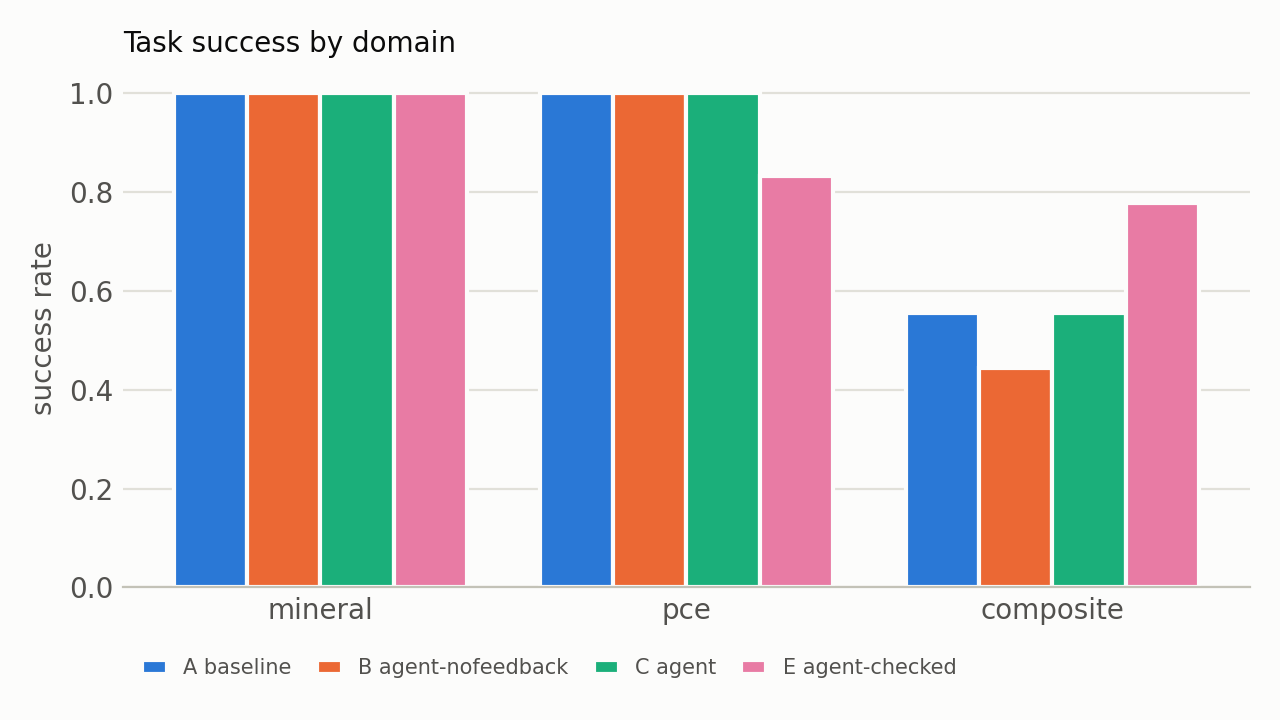
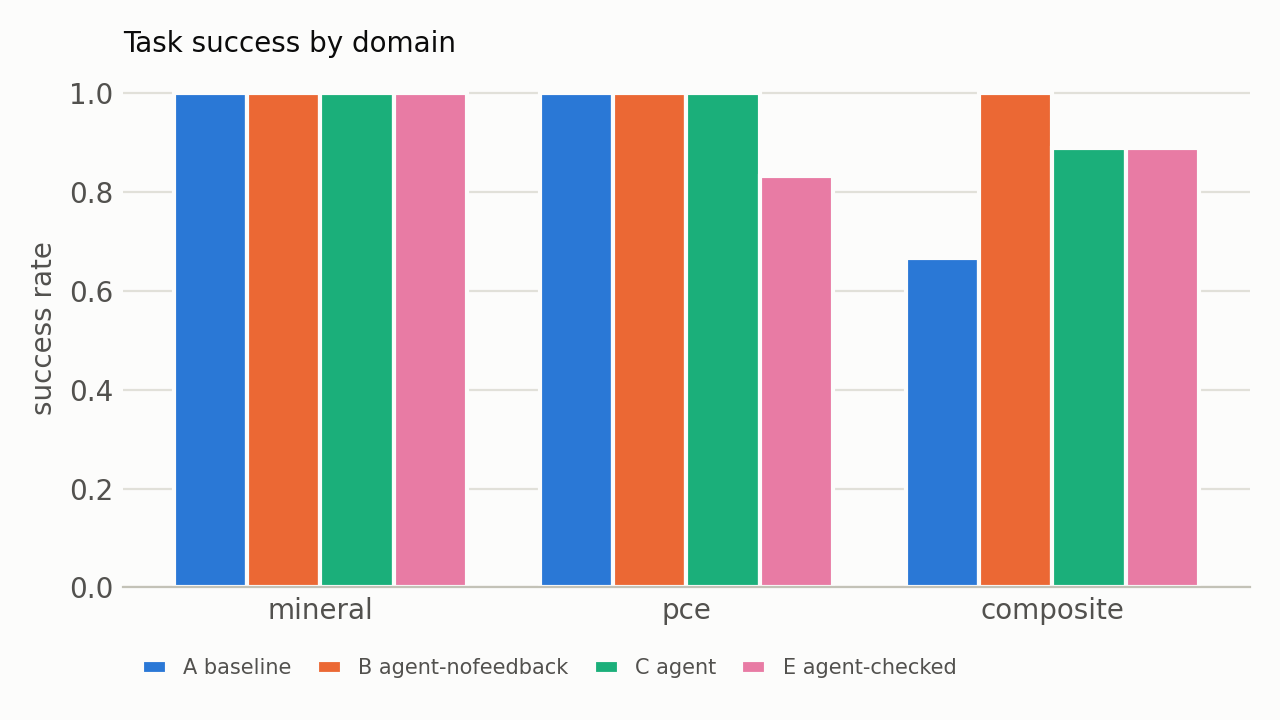
Dev rerun after the seed hint: A 0.92, B 1.00, C 0.97, E 0.90 ($1.66)
c06 now 3/3 for B, C and E (was 0/3). Remaining: c04 (TC.2 chemistry mode
depends on the random sequence; owner decision) and E's misread of p04.

Changed region(s): [[0.6875, 0.1222, 0.9375, 0.5194]]

diff --git a/docs/RESULTS_DEV.md b/docs/RESULTS_DEV.md
@@ -1,6 +1,6 @@
 # Results: A, B, C, E on 13 tasks × 3 repeats
 
-Generated by `python -m eval.experiment tables` on 2026-11-03 from `runs/exp/dev_20261103-170817`. git 0d0a945 · validator 1.0.0 · split 063c2ddad24b… · Large-scale Atomic/Molecular Massively Parallel Simulator - 22 Jul 2025 - Update 6. Success = every Tier 0–3 check PASS and TC.2 PASS (METRICS.md v1.1); rates are means of per-task rates.
+Generated by `python -m eval.experiment tables` on 2026-11-03 from `runs/exp/dev_20261103-180733`. git 63f10a8 · validator 1.0.0 · split 063c2ddad24b… · Large-scale Atomic/Molecular Massively Parallel Simulator - 22 Jul 2025 - Update 6. Success = every Tier 0–3 check PASS and TC.2 PASS (METRICS.md v1.1); rates are means of per-task rates.
 
 Model: claude-sonnet-5-5. Prices: https://platform.claude.com/docs/en/about-claude/pricing (and models/overview), fetched 2026-10-27, re-checked unchanged 2026-11-03 (2026-11-03).
 
@@ -8,42 +8,42 @@ Model: claude-sonnet-5-5. Prices: https://platform.claude.com/docs/en/about-clau
 
 | | System | Success | Spread across repeats (mean ± sd, min–max) | pass@3 | Validity |
 |---|---|---|---|---|---|
-| **A** | baseline (single call, no tools) | **0.897** | 0.897 ± 0.044 (0.846–0.923) | 0.923 | 0.923 |
-| **B** | agent-nofeedback (loop, retries without feedback) | **0.872** | 0.872 ± 0.044 (0.846–0.923) | 0.923 | 1.000 |
-| **C** | agent (loop + validator feedback) | **0.897** | 0.897 ± 0.044 (0.846–0.923) | 0.923 | 1.000 |
-| **E** | agent-checked (C + build summary + request check) | **0.872** | 0.872 ± 0.044 (0.846–0.923) | 0.923 | 1.000 |
+| **A** | baseline (single call, no tools) | **0.923** | 0.923 ± 0.000 (0.923–0.923) | 0.923 | 0.923 |
+| **B** | agent-nofeedback (loop, retries without feedback) | **1.000** | 1.000 ± 0.000 (1.000–1.000) | 1.000 | 1.000 |
+| **C** | agent (loop + validator feedback) | **0.974** | 0.974 ± 0.044 (0.923–1.000) | 1.000 | 1.000 |
+| **E** | agent-checked (C + build summary + request check) | **0.897** | 0.897 ± 0.044 (0.846–0.923) | 0.923 | 1.000 |
 
 ## 2. Success by domain, difficulty and force field
 
 | Domain | composite (3 tasks) | mineral (4 tasks) | pce (6 tasks) |
 |---|---|---|---|
-| A | 0.556 | 1.000 | 1.000 |
-| B | 0.444 | 1.000 | 1.000 |
-| C | 0.556 | 1.000 | 1.000 |
-| E | 0.778 | 1.000 | 0.833 |
+| A | 0.667 | 1.000 | 1.000 |
+| B | 1.000 | 1.000 | 1.000 |
+| C | 0.889 | 1.000 | 1.000 |
+| E | 0.889 | 1.000 | 0.833 |
 
 | Difficulty | easy (3 tasks) | hard (4 tasks) | representative (6 tasks) |
 |---|---|---|---|
-| A | 1.000 | 0.750 | 0.944 |
-| B | 1.000 | 0.750 | 0.889 |
-| C | 1.000 | 0.750 | 0.944 |
-| E | 1.000 | 0.833 | 0.833 |
+| A | 1.000 | 0.750 | 1.000 |
+| B | 1.000 | 1.000 | 1.000 |
+| C | 1.000 | 1.000 | 0.944 |
+| E | 1.000 | 1.000 | 0.778 |
 
 | Force field | cvff (6 tasks) | pcff (7 tasks) |
 |---|---|---|
-| A | 0.778 | 1.000 |
-| B | 0.722 | 1.000 |
-| C | 0.778 | 1.000 |
-| E | 0.889 | 0.857 |
+| A | 0.833 | 1.000 |
+| B | 1.000 | 1.000 |
+| C | 0.944 | 1.000 |
+| E | 0.944 | 0.857 |
 
 ## 3. Ablation contrasts (same tasks, same repeats)
 
 | Contrast | What it isolates | Δ success | Tasks better / same / worse | Sign test p |
 |---|---|---|---|---|
-| B vs A | tools and retries | -0.026 | 0 / 12 / 1 | 1.000 |
-| C vs B | validator feedback (the central claim) | +0.026 | 1 / 12 / 0 | 1.000 |
-| C vs A | the whole agent | +0.000 | 0 / 13 / 0 | 1.000 |
-| E vs C | request check | -0.026 | 2 / 10 / 1 | 1.000 |
+| B vs A | tools and retries | +0.077 | 1 / 12 / 0 | 1.000 |
+| C vs B | validator feedback (the central claim) | -0.026 | 0 / 12 / 1 | 1.000 |
+| C vs A | the whole agent | +0.051 | 1 / 11 / 1 | 1.000 |
+| E vs C | request check | -0.077 | 0 / 12 / 1 | 1.000 |
 
 Per-task rates over 13 tasks; ties are dropped by the sign test, which reaches p < 0.05 only with at least 6 tasks better and none worse. Report the per-task counts, not only the mean.
 
@@ -51,36 +51,35 @@ Per-task rates over 13 tasks; ties are dropped by the sign test, which reaches p
 
 | | NO_OUTPUT | TC_ONLY |
 |---|---|---|
-| A | 3 | 1 |
-| B | 0 | 5 |
-| C | 0 | 4 |
-| E | 0 | 5 |
+| A | 3 | 0 |
+| B | 0 | 0 |
+| C | 0 | 1 |
+| E | 0 | 4 |
 
 ## 5. Baseline (A) failures: how often each system succeeded on the same task and repeat
 
 | A's failure | Runs | B | C | E |
 |---|---|---|---|---|
-| NO_OUTPUT | 3 | 0/3 | 0/3 | 1/3 |
-| TC_ONLY | 1 | 0/1 | 0/1 | 1/1 |
+| NO_OUTPUT | 3 | 3/3 | 3/3 | 3/3 |
 
 ## 6. Inside the loop: first attempt -> final success
 
 The first attempt's outcome as the loop saw it (in-loop validation, request check for E); "accepted in attempt 1" runs can still fail TC.2 afterwards.
 
-**B** (agent-nofeedback): accepted in attempt 1 → 34/39 succeed
+**B** (agent-nofeedback): accepted in attempt 1 → 39/39 succeed
 
-**C** (agent): accepted in attempt 1 → 35/39 succeed
+**C** (agent): accepted in attempt 1 → 38/39 succeed
 
-**E** (agent-checked): accepted in attempt 1 → 30/30 succeed; REQ:supercell → 4/6 succeed; REQ:backbone_units_per_chain → 0/3 succeed
+**E** (agent-checked): accepted in attempt 1 → 33/33 succeed; REQ:supercell → 2/3 succeed; REQ:backbone_units_per_chain → 0/3 succeed
 
 ## 7. Attempts, tokens, cost, latency (per task run)
 
 | | Mean attempts | Escalations | Input tokens | Output tokens | Cache read | Cost (USD) | Total (USD) | Latency mean / max (s) |
 |---|---|---|---|---|---|---|---|---|
-| A | 1.0 | 0 | 152 | 312 | 5249 | 0.0043 | 0.1675 | 5.63 / 14.46 |
-| B | 1.0 | 0 | 6 | 706 | 13494 | 0.01032 | 0.4024 | 14.06 / 49.46 |
-| C | 1.0 | 0 | 6 | 706 | 13689 | 0.00935 | 0.3647 | 13.96 / 49.03 |
-| E | 1.231 | 0 | 1970 | 1029 | 17966 | 0.01827 | 0.7124 | 20.28 / 82.26 |
+| A | 1.0 | 0 | 152 | 311 | 5249 | 0.00428 | 0.167 | 5.69 / 14.58 |
+| B | 1.0 | 0 | 6 | 743 | 13756 | 0.01071 | 0.4177 | 12.46 / 28.6 |
+| C | 1.0 | 0 | 6 | 734 | 14309 | 0.00973 | 0.3796 | 12.29 / 29.48 |
+| E | 1.154 | 0 | 1970 | 1010 | 17224 | 0.01791 | 0.6984 | 17.77 / 58.08 |
 
 The validator's own results (948 corrupted files, 0 missed) are in docs/VALIDATOR_RESULTS.md.
 
